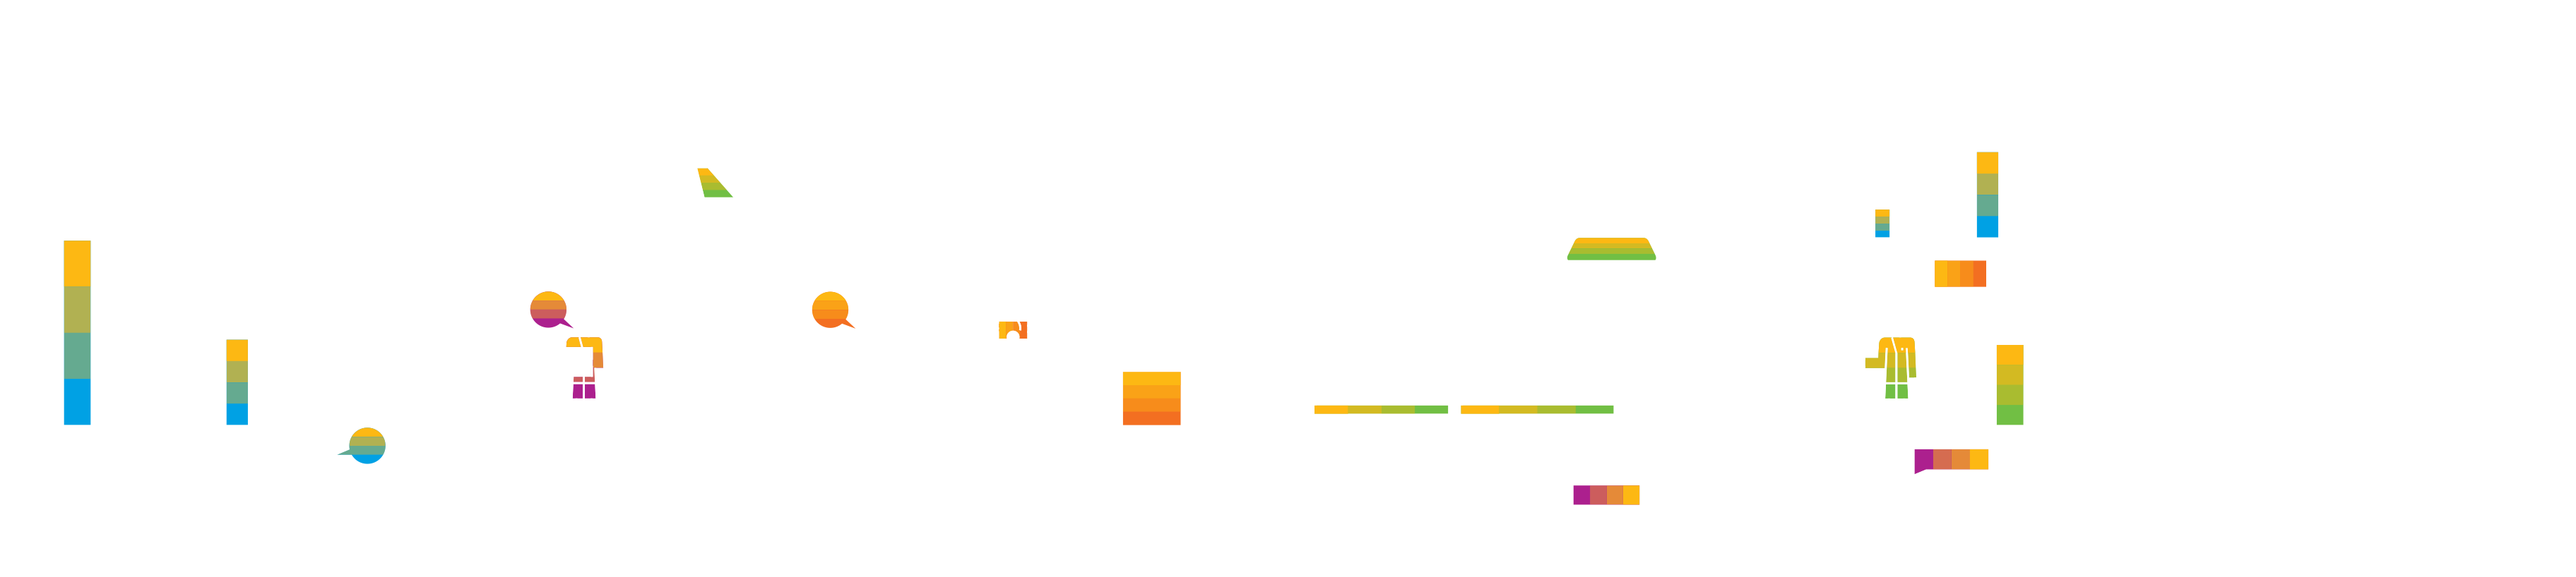
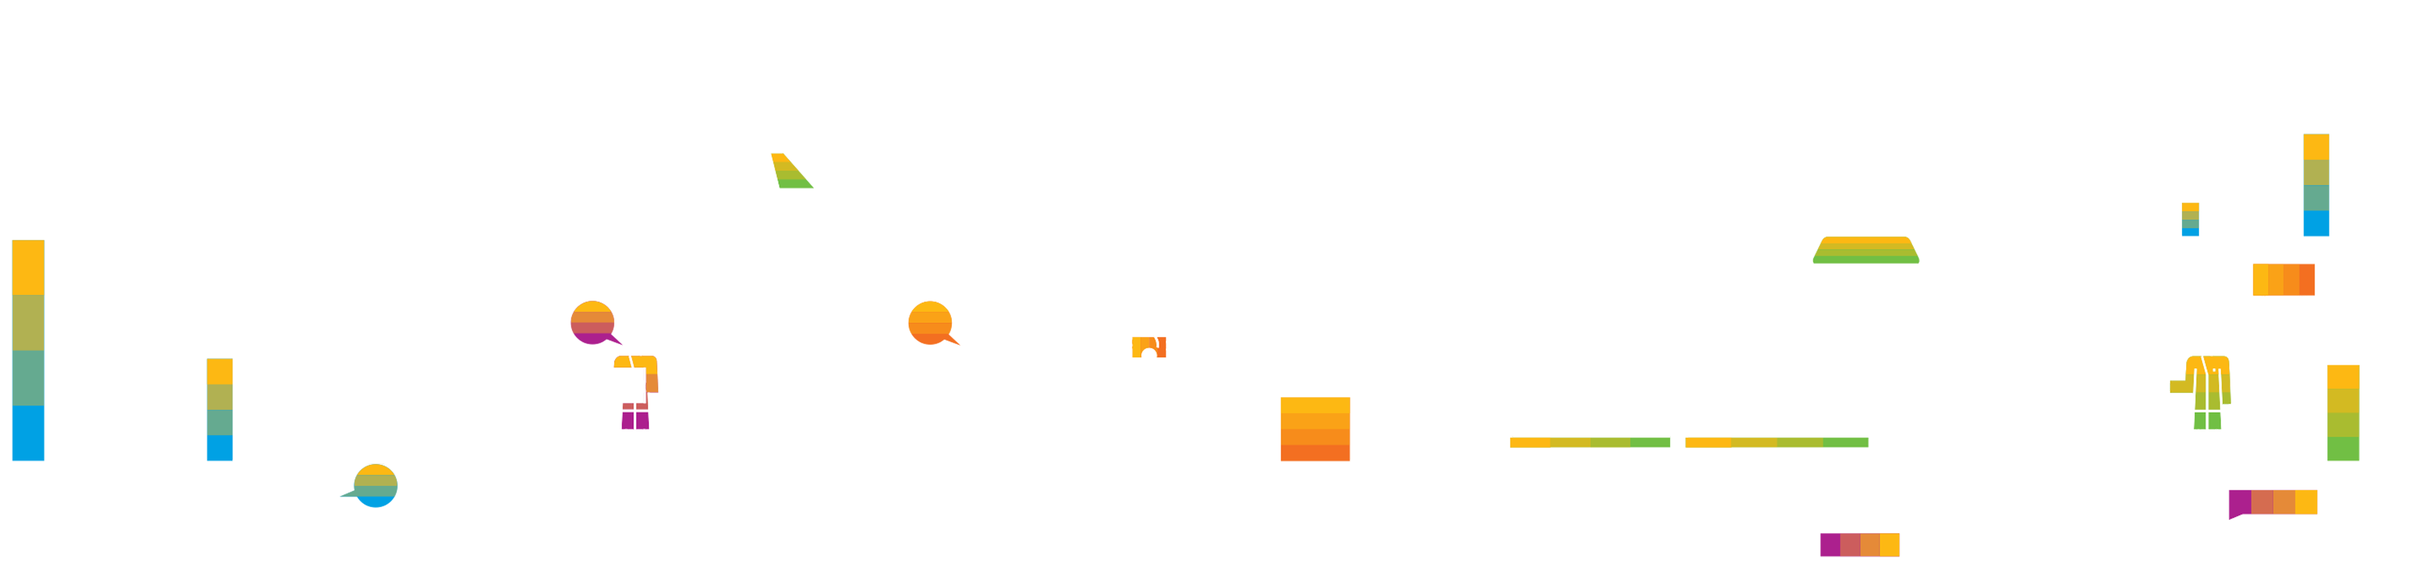
css

diff --git a/public/css/index.css b/public/css/index.css
@@ -438,10 +438,6 @@ span.number{
 	margin-top: 30px;
 }
 /*BARRA SCROLL*/
-::-webkit-scrollbar {
-	width: 4px;
-	height: 5px;
-}
 ::-webkit-scrollbar-track {
 	background: rgba(0, 0, 0, 0.1);
 }
@@ -531,7 +527,7 @@ span.number{
 		right: calc(0% + 215px);
 	}
 	.fondo-bottom img{
-		max-width: 850px;
+		max-width: 650px;
 	}
 	.mdl-container{
 		max-width: 750px;
@@ -611,7 +607,7 @@ span.number{
 		border-width: 25px 20px 25px 0
 	}
 	.fondo-bottom img{
-		max-width: 400px;
+		max-width: 320px;
 	}
 	.logo-header{
 		max-width: 75px;
